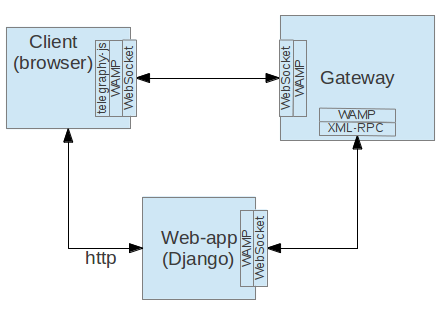
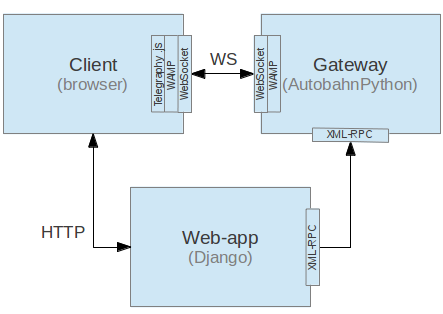
Update documentation

Changed region(s): [[0.0, 0.0287, 0.9977, 0.5159], [0.088, 0.5732, 0.8217, 1.0]]

diff --git a/doc/source/django-telegraphy.rst b/doc/source/django-telegraphy.rst
@@ -153,15 +153,12 @@ TBD.
 
 JavaScript API
 ----------------
-Luego desde el JS uno puede 'suscribirse' y/o consultar los tipos de eventos disponibles.
-Desde el cliente, se pide suscribir a 'pepitos' y el Gateway sabrá si el evento 'pepito' exite o no.
 
-The JS API provides a Gateway 'representative' which is responsible of:
+TBC. The `AutobahnJS-based <http://autobahn.ws/js>`__ API provides a Gateway *representative* which is responsible of:
  * connect to a running instance of a Gateway
  * subscribe to events. Free events? can we subscribe to unregistered Gateway events?
  * provide means to handle connection changes (keep the connection alive?)
- * Implelements the custom, websockets-based protocol
- *
+
 
 
 Authentication shortcomings
@@ -171,11 +168,17 @@ Django uses a **HTTP Only** cookie called *sessionid*. This cookie would not be 
 security issues. Since Gateway process may not run in the same context (port, ip, machine) where Django is running, we can't
 rely on it for authentication.
 
-In order to authenticate clients we must pre share a secret *ws auth token*.
-This token is created by the gateway whenever a page that uses telegraphy template tag is rendered.
-These tokens are short lived, they expire once the websocket connection has been established.
+In order to authenticate clients we must pre share (key, secret) tokens, as part of the
+`WAMP Challenge-Response-Authentication`__ mechanism. This tokens are created by the gateway
+whenever a page that uses telegraphy's template tag is rendered. These tokens are short lived,
+they expire once the websocket connection has been established.
 
-If the client reconnects it must send a CONNECT command
+.. _wampcra: https://github.com/tavendo/AutobahnPython/tree/master/examples/wamp/authentication
+
+__ wampcra_
 
 
+
+
+TBC.
 

diff --git a/doc/source/index.rst b/doc/source/index.rst
@@ -6,9 +6,9 @@
 Welcome to Telegraphy's documentation!
 ======================================
 
-*Project home:* `https://github.com/machinalis/telegraphy/ <https://github.com/machinalis/telegraphy/>`_
+*Project home:* `https://github.com/machinalis/telegraphy/ <https://github.com/machinalis/telegraphy/>`__
 
-Telegraphy provides real time events for WSGI Python applications with additional
+:doc:`intro` provides real time events for WSGI Python applications with additional
 features such as event filtering, subscription persistence and authorization/authentication.
 
 It's initially intended for Django but you can extend it to any WSGI framework.
@@ -18,16 +18,6 @@ WebSocket pub/sub and RPC is based on AutobahnPython_ implementation of `WAMP pr
 .. _AutobahnPython: http://autobahn.ws/
 
 .. _WAMP Protocol: http://wamp.ws/
-
-
-:doc:`intro`
-
-:doc:`wamp`
-
-:doc:`examples`
-
-.. toctree::
-   :maxdepth: 3
 
 
 Getting It
@@ -45,6 +35,19 @@ Or grab the source code from the GitHub repository and run setup.py::
 
 For more detailed instructions check out our :doc:`installation_instructions`. Enjoy.
 
+
+Get Involved
+==============
+
+We are eager to hear from the community: to receive suggestions, bug-reports, participate in discussions and
+improve Telegraphy as much as it's possible.
+
+For all of that, we have a Google group in http://groups.google.com/group/telegraphy
+
+Also, to guide the development efforts and issues, we are using
+`GitHub's issue tracker <https://github.com/machinalis/telegraphy/issues>`__.
+
+
 Contents
 ========
 
@@ -53,7 +56,11 @@ Contents
 
    installation_instructions
    intro
+   gateway
+   django-telegraphy
+   examples
    wamp
+
 
 Indices and tables
 ==================

diff --git a/doc/source/intro.rst b/doc/source/intro.rst
@@ -29,7 +29,7 @@ Overview
 The Telegraphy project's architecture has three main components:
  * A **web-application** that registers and emits events.
  * A **gateway** is a scalable, high-performance, asynchronous, networking engine.
- * A **client** api which talks `WAMP <http://wamp.ws//>`_ (through a WebSocket) with a *Gateway*.
+ * A **client** api which talks `WAMP <http://wamp.ws/>`__ (through a WebSocket) with a *Gateway*.
    This is normally a JavaScript loaded from a web-page.
 
 .. image:: _static/architecture-protocol-stack.png
@@ -50,7 +50,7 @@ The gateway is implemented using `Twisted <http://twistedmatrix.com/>`_.
     A very useful app is provided. It features a class-based mechanism to extend the application's models
     with the capability to generate server-side events.
 
-    Also, template tags and a Javascript API (based on `AutobahnJS <http://autobahn.ws/js>`_) are provided.
+    Also, template tags and a Javascript API (based on `AutobahnJS <http://autobahn.ws/js>`__) are provided.
     These make it really easy to handle the events on the client side.
 
 :doc:`Gateway <gateway>`

diff --git a/README.rst b/README.rst
@@ -70,7 +70,7 @@ Extend your models so that they automatically generate events: create an ``event
 
 And that's it! Every time you create, update or delete an instance of your model, an event will reach the frontend.
 
-You can find more `examples in the documentation <http://telegraphy.readthedocs.org/en/latest/>`_.
+You can find more `examples in the documentation <http://telegraphy.readthedocs.org/en/latest/>`__.
 
 
 More detailed documentation
@@ -83,7 +83,10 @@ Or for offline access, you can clone the project code repository and read them f
 Help and discussion
 ===================
 
-If you finde any bugs or suggestions please use Github Issue Tracker
+For help, suggestions and discussions please refer to http://groups.google.com/group/telegraphy
+
+To guide the development efforts, or if you find any bugs, please use
+`GitHub's issue tracker <https://github.com/machinalis/telegraphy/issues>`__.
 
 
 Authors
